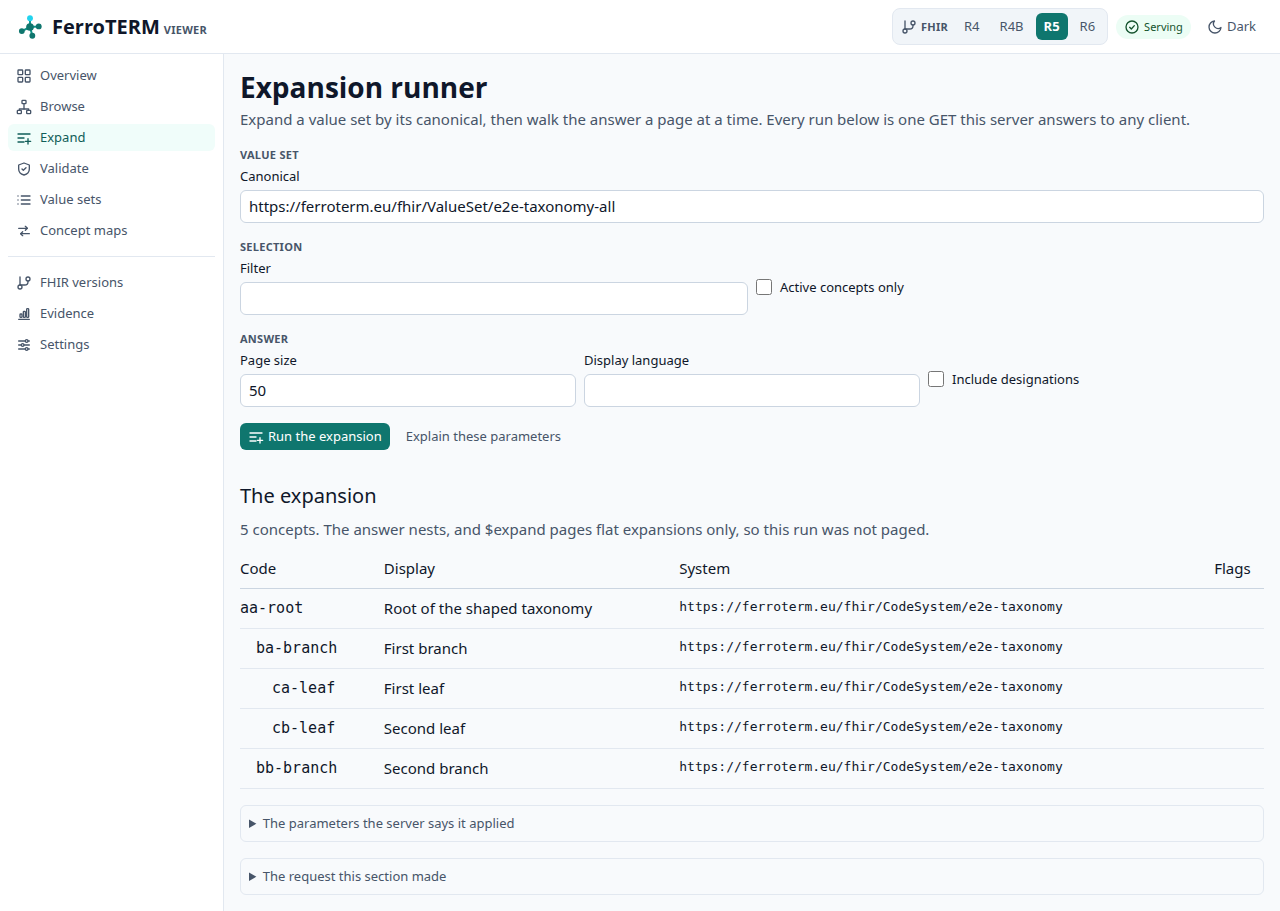
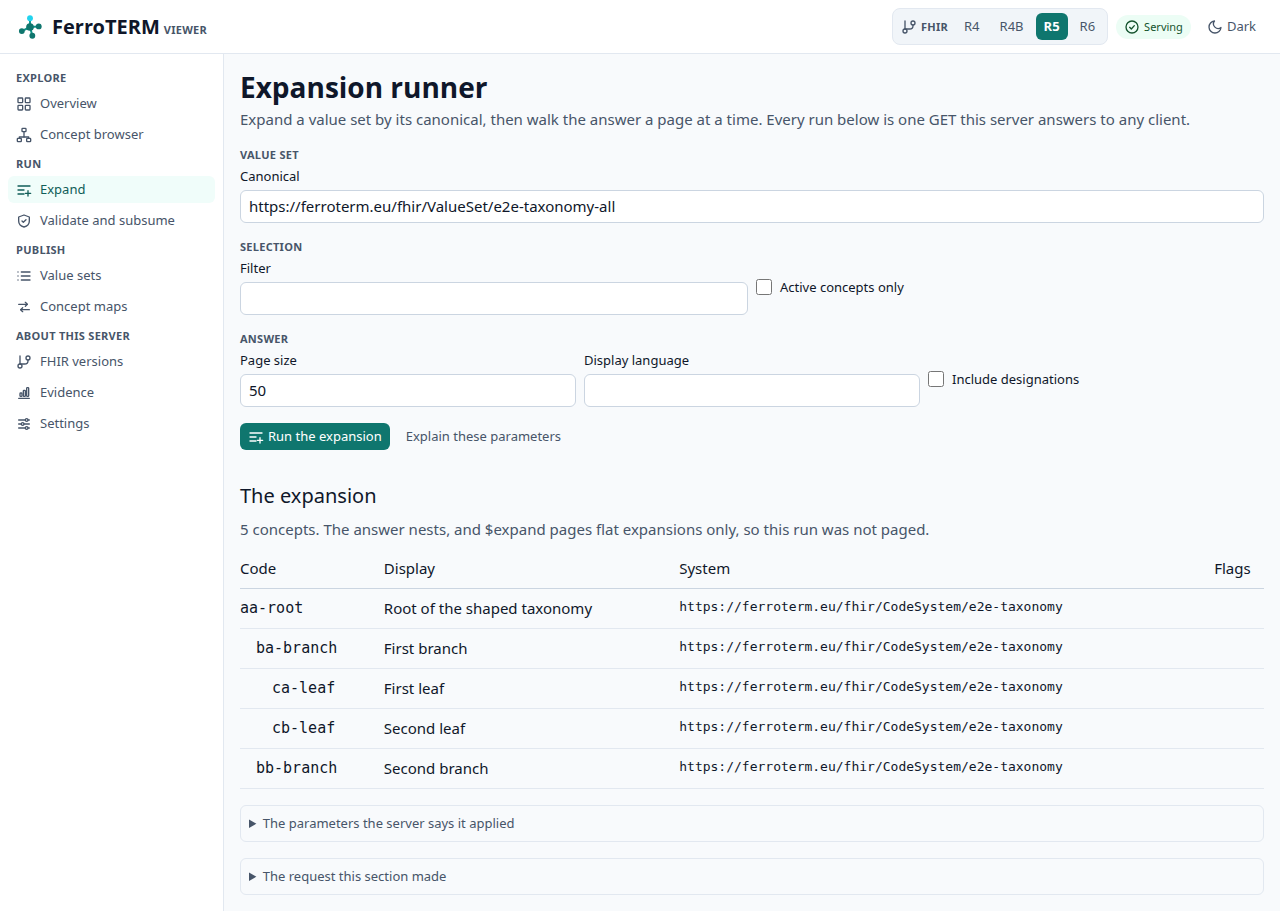
feat(viewer): the sidebar becomes four labelled groups
Nine flat entries under one hairline said nothing about what a reader had come
to do. The sidebar is four groups now, each labelled and each a list of its
own: Explore reads what the server holds, Run asks it something, Publish lists
what it publishes, and About this server answers questions about the server
rather than about a code.

The label is the group's accessible name through `aria-labelledby`, so a
screen reader announces which group a link is in instead of reading nine links
in a row (https://www.w3.org/WAI/ARIA/apg/patterns/landmarks/). Two entries
say what they are rather than what they are called: Browse is the concept
browser, and Validate is validate and subsume, which is what that screen runs.

The hairline is gone: it drew a grouping the labels now carry.

Changed region(s): [[0.0, 0.0615, 0.125, 0.4918]]

diff --git a/app/ferroterm-viewer/src/components/shell.rs b/app/ferroterm-viewer/src/components/shell.rs
@@ -13,6 +13,7 @@ use leptos_router::params::Params;
 use leptos_router::path;
 
 use crate::components::health::HealthIndicator;
+use crate::components::icon;
 use crate::components::icon::Glyph;
 use crate::components::icon::Icon;
 use crate::components::mark::Lockup;
@@ -51,45 +52,49 @@ pub(crate) struct SelectedVersion(pub(crate) Signal<FhirVersion>);
 /// The element the navigation toggle opens and closes.
 const NAV_ID: &str = "screen-nav";
 
-/// One slot of the sidebar, in the order it is drawn.
-enum NavSlot {
-    /// A screen: its path segment below the base, its label, and the glyph a
-    /// reader recognises it by.
-    Item(&'static str, &'static str, Glyph),
-    /// The hairline between the two groups.
-    Divider,
-}
+/// One screen in the sidebar: its path segment below the base, the label a
+/// reader reads, and the glyph they recognise it by.
+struct NavItem(&'static str, &'static str, Glyph);
 
-/// The sidebar, in the order it renders: the screens over what the server
-/// serves, a divider, then the screens about the viewer itself.
+/// One labelled group of the sidebar.
+struct NavGroup(&'static str, &'static [NavItem]);
+
+/// The screens a reader reads what this server holds on.
+const EXPLORE: [NavItem; 2] = [
+    NavItem(OVERVIEW_PATH, "Overview", icon::OVERVIEW),
+    NavItem(BROWSE_PATH, "Concept browser", icon::BROWSE),
+];
+
+/// The screens a reader asks this server a question on.
+const RUN: [NavItem; 2] = [
+    NavItem(EXPAND_PATH, "Expand", icon::EXPAND),
+    NavItem(VALIDATE_PATH, "Validate and subsume", icon::VALIDATE),
+];
+
+/// The screens that list what this server publishes.
+const PUBLISH: [NavItem; 2] = [
+    NavItem(VALUE_SETS_PATH, "Value sets", icon::VALUE_SETS),
+    NavItem(CONCEPT_MAPS_PATH, "Concept maps", icon::CONCEPT_MAPS),
+];
+
+/// The screens about this server and this viewer, rather than about a code.
+const ABOUT: [NavItem; 3] = [
+    NavItem(VERSIONS_PATH, "FHIR versions", icon::VERSION),
+    NavItem(EVIDENCE_PATH, "Evidence", icon::EVIDENCE),
+    NavItem(SETTINGS_PATH, "Settings", icon::SETTINGS),
+];
+
+/// The sidebar, as the four groups in the order it renders them.
 ///
 /// The order lives here rather than in the markup, so one table decides it and
-/// the rendered sidebar cannot drift from it. The divider belongs to the
-/// second group, whose entries are the ones a new screen is least likely to
-/// land between.
-const NAV_SLOTS: [NavSlot; 10] = [
-    NavSlot::Item(OVERVIEW_PATH, "Overview", crate::components::icon::OVERVIEW),
-    NavSlot::Item(BROWSE_PATH, "Browse", crate::components::icon::BROWSE),
-    NavSlot::Item(EXPAND_PATH, "Expand", crate::components::icon::EXPAND),
-    NavSlot::Item(VALIDATE_PATH, "Validate", crate::components::icon::VALIDATE),
-    NavSlot::Item(
-        VALUE_SETS_PATH,
-        "Value sets",
-        crate::components::icon::VALUE_SETS,
-    ),
-    NavSlot::Item(
-        CONCEPT_MAPS_PATH,
-        "Concept maps",
-        crate::components::icon::CONCEPT_MAPS,
-    ),
-    NavSlot::Divider,
-    NavSlot::Item(
-        VERSIONS_PATH,
-        "FHIR versions",
-        crate::components::icon::VERSION,
-    ),
-    NavSlot::Item(EVIDENCE_PATH, "Evidence", crate::components::icon::EVIDENCE),
-    NavSlot::Item(SETTINGS_PATH, "Settings", crate::components::icon::SETTINGS),
+/// the rendered sidebar cannot drift from it. The groups are what a reader
+/// came to do: read what the server holds, ask it something, see what it
+/// publishes, or ask about the server itself.
+const NAV_GROUPS: [NavGroup; 4] = [
+    NavGroup("Explore", &EXPLORE),
+    NavGroup("Run", &RUN),
+    NavGroup("Publish", &PUBLISH),
+    NavGroup("About this server", &ABOUT),
 ];
 
 /// The classes every sidebar link carries, whichever screen it leads to.
@@ -142,12 +147,33 @@ fn nav_entry(
     .into_any()
 }
 
-/// The hairline between the sidebar's two groups.
+/// One labelled group of the sidebar.
 ///
-/// It draws a grouping the labels already carry, so it says nothing to a
-/// screen reader and is hidden from one.
-fn nav_divider() -> AnyView {
-    view! { <li aria-hidden="true" class="my-default border-t border-line"></li> }.into_any()
+/// The label is the group's accessible name through `aria-labelledby`, so a
+/// screen reader announces which group a link is in rather than reading twelve
+/// links in a row (<https://www.w3.org/WAI/ARIA/apg/patterns/landmarks/>).
+fn nav_group(
+    section: Memo<Option<&'static str>>,
+    version: Signal<FhirVersion>,
+    group: &'static NavGroup,
+) -> AnyView {
+    let NavGroup(label, items) = group;
+    let id = format!("screen-nav-{}", label.split(' ').next().unwrap_or(label)).to_lowercase();
+    let entries: Vec<AnyView> = items
+        .iter()
+        .map(|NavItem(segment, name, glyph)| nav_entry(section, version, segment, name, *glyph))
+        .collect();
+    view! {
+        <li>
+            <p id=id.clone() class=format!("px-default pt-default pb-tight {}", styles::EYEBROW)>
+                {*label}
+            </p>
+            <ul aria-labelledby=id class="flex flex-col gap-tight">
+                {entries}
+            </ul>
+        </li>
+    }
+    .into_any()
 }
 
 /// The sidebar every screen is reached from.
@@ -158,14 +184,9 @@ fn nav_divider() -> AnyView {
 fn sidebar(version: Signal<FhirVersion>, open: RwSignal<bool>) -> AnyView {
     let location = use_location();
     let section = Memo::new(move |_| location.pathname.with(|path| nav_section(path)));
-    let slots: Vec<AnyView> = NAV_SLOTS
-        .into_iter()
-        .map(|slot| match slot {
-            NavSlot::Item(segment, label, glyph) => {
-                nav_entry(section, version, segment, label, glyph)
-            }
-            NavSlot::Divider => nav_divider(),
-        })
+    let groups: Vec<AnyView> = NAV_GROUPS
+        .iter()
+        .map(|group| nav_group(section, version, group))
         .collect();
     view! {
         <aside
@@ -174,7 +195,7 @@ fn sidebar(version: Signal<FhirVersion>, open: RwSignal<bool>) -> AnyView {
             class:hidden=move || !open.get()
         >
             <nav aria-label="Screens" class="p-default">
-                <ul class="flex flex-col gap-tight">{slots}</ul>
+                <ul class="flex flex-col">{groups}</ul>
             </nav>
         </aside>
     }
@@ -277,19 +298,18 @@ pub(crate) fn Shell() -> impl IntoView {
 
 #[cfg(test)]
 mod tests {
-    use super::NAV_SLOTS;
-    use super::NavSlot;
+    use super::ABOUT;
+    use super::EXPLORE;
+    use super::NAV_GROUPS;
+    use super::NavItem;
     use crate::routes::UI_BASE;
     use crate::routes::nav_section;
 
     /// The path segment of every entry, in the order the sidebar draws them.
     fn entries() -> Vec<&'static str> {
-        NAV_SLOTS
+        NAV_GROUPS
             .iter()
-            .filter_map(|slot| match slot {
-                NavSlot::Item(segment, _, _) => Some(*segment),
-                NavSlot::Divider => None,
-            })
+            .flat_map(|group| group.1.iter().map(|NavItem(segment, _, _)| *segment))
             .collect()
     }
 
@@ -320,22 +340,31 @@ mod tests {
     }
 
     #[test]
-    fn the_divider_separates_two_groups_it_never_ends() {
-        let dividers = NAV_SLOTS
-            .iter()
-            .filter(|slot| matches!(slot, NavSlot::Divider))
-            .count();
+    fn every_group_is_labelled_and_holds_a_screen() {
+        for group in &NAV_GROUPS {
+            assert!(
+                !group.0.is_empty(),
+                "a group with no label reads as a run of links"
+            );
+            assert!(
+                !group.1.is_empty(),
+                "the `{}` group draws a label over nothing",
+                group.0
+            );
+        }
+    }
+
+    #[test]
+    fn the_server_facts_are_the_last_group_and_the_reading_screens_the_first() {
         assert_eq!(
-            dividers, 1,
-            "one hairline, so the sidebar reads as two groups"
+            NAV_GROUPS.first().map(|group| group.1.len()),
+            Some(EXPLORE.len()),
+            "a reader arrives to read what the server holds"
         );
-        assert!(
-            !matches!(NAV_SLOTS.first(), Some(NavSlot::Divider)),
-            "a hairline at either end draws a group with nothing in it"
-        );
-        assert!(
-            !matches!(NAV_SLOTS.last(), Some(NavSlot::Divider)),
-            "a hairline at either end draws a group with nothing in it"
+        assert_eq!(
+            NAV_GROUPS.last().map(|group| group.1.len()),
+            Some(ABOUT.len()),
+            "the screens about the server come after the screens about a code"
         );
     }
 
